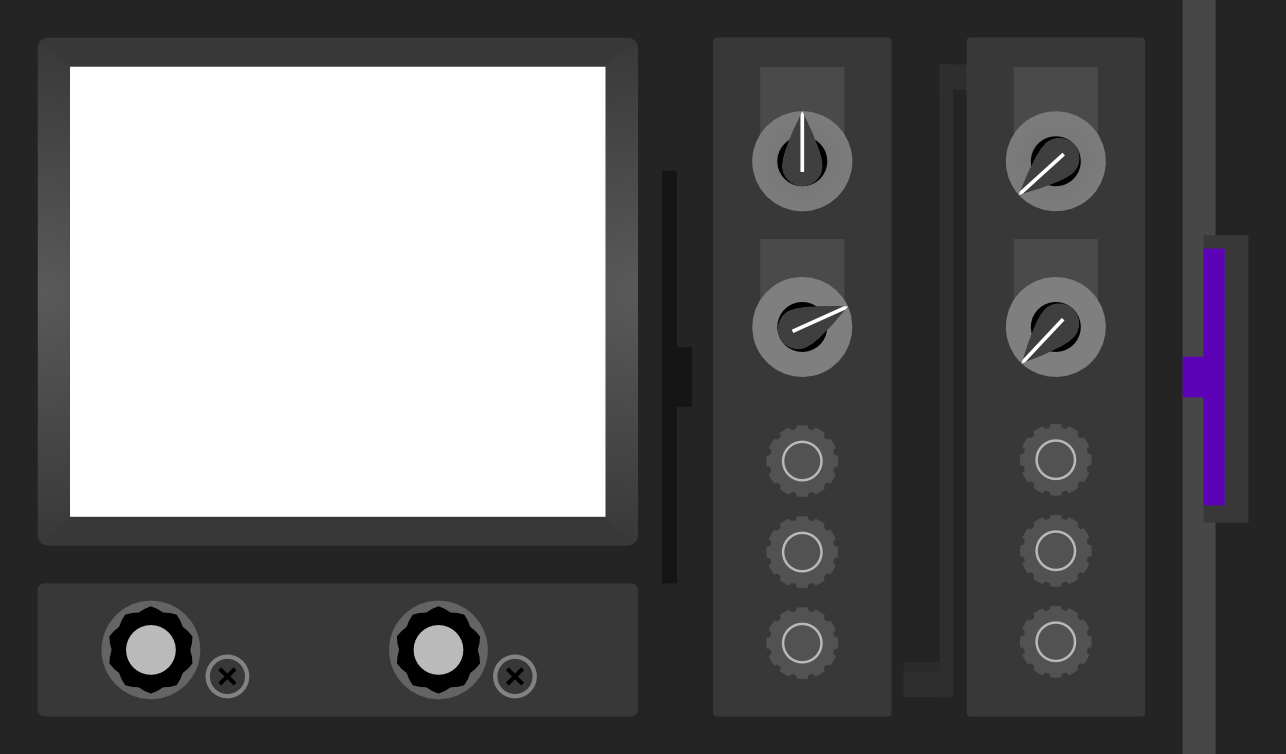
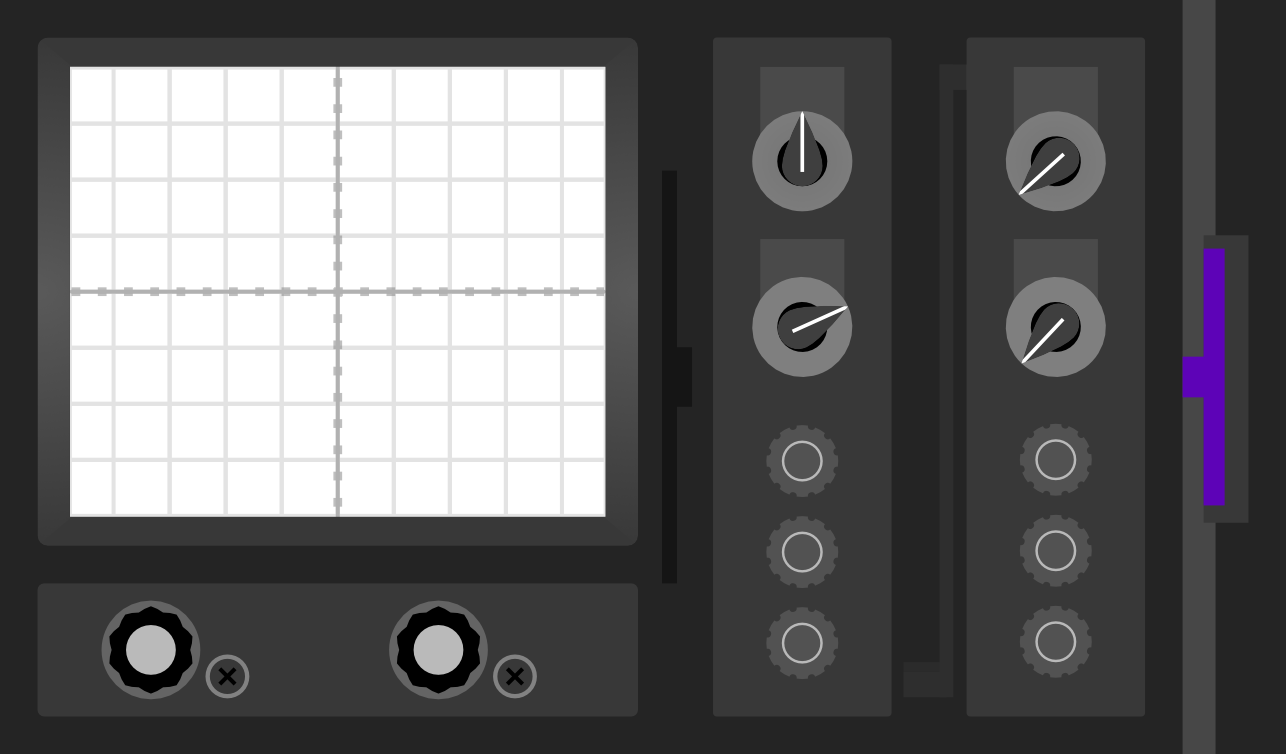
Create oscilloscope component (#84)
- Update oscilloscope image
  - Generalize frequency analyzer to accept attributes
  - Make frequency analyzer responsive
  - Optimize display for Chrome, FF and Safari
  - Style oscilloscope
  - Write frequency analyzer tests

diff --git a/src/modules/FrequencyAnalyzer.js b/src/modules/FrequencyAnalyzer.js
@@ -4,60 +4,65 @@ export default class FrequencyAnalyzer {
   constructor() {
     this.node = ctx().createAnalyser();
     this.elem = document.createElement('div');
+  }
 
+  draw(target, {
+    fftSize,
+    height,
+    lineThickness,
+    lineColor,
+  }) {
     const { node, elem } = this;
 
-    elem.className += 'frequency-analyzer';
-    document.body.insertBefore(elem, document.querySelector('#main'));
+    node.fftSize = fftSize;
+    node.height = height;
+    node.lineThickness = lineThickness;
+    node.lineColor = lineColor;
 
-    node.width = elem.offsetWidth;
-    node.height = elem.offsetHeight;
-    node.lineColor = '#191919';
-    node.lineThickness = 5;
+    target.appendChild(elem);
 
     const svgNamespace = 'http://www.w3.org/2000/svg';
     const paper = document.createElementNS(svgNamespace, 'svg');
-    paper.setAttribute('width', node.width);
-    paper.setAttribute('height', node.height);
+    paper.setAttribute('viewBox', `0 0 2450 ${height}`);
     paper.setAttributeNS('http://www.w3.org/2000/xmlns/', 'xmlns:xlink', 'http://www.w3.org/1999/xlink');
     elem.appendChild(paper);
 
     const oscLine = document.createElementNS(svgNamespace, 'path');
-    oscLine.setAttribute('stroke', node.lineColor);
-    oscLine.setAttribute('stroke-width', node.lineThickness);
+    oscLine.setAttribute('stroke', lineColor);
+    oscLine.setAttribute('stroke-width', lineThickness);
     oscLine.setAttribute('fill', 'none');
     paper.appendChild(oscLine);
 
-    const noDataPoints = 10;
     const freqData = new Uint8Array(node.frequencyBinCount);
 
-    const drawLine = () => {
-      node.getByteTimeDomainData(freqData);
+    this.drawLine(freqData, oscLine);
+  }
 
-      const graphPoints = [];
-      let graphStr = '';
+  drawLine(freqData, oscLine) {
+    const { height, lineThickness, lineColor } = this.node;
 
-      graphPoints.push(`M0, ${node.height / 2}`);
+    this.node.getByteTimeDomainData(freqData);
 
-      for (let i = 0; i < freqData.length; i++) {
-        if (i % noDataPoints) {
-          const point = (freqData[i] / 128) * (node.height / 2);
-          graphPoints.push(`L${i}, ${point}`);
-        }
+    const graphPoints = [];
+    const svgDValue = [];
+
+    graphPoints.push(`M0, ${height / 2}`);
+
+    for (let i = 0; i < freqData.length; i++) {
+      if (i % 10) {
+        const point = (freqData[i] / 128) * (height / 2);
+        graphPoints.push(`L${i}, ${point}`);
       }
+    }
 
-      for (let i = 0; i < graphPoints.length; i++) {
-        graphStr += graphPoints[i];
-      }
+    for (let i = 0; i < graphPoints.length; i++) {
+      svgDValue.push(graphPoints[i]);
+    }
 
-      oscLine.setAttribute('stroke', node.lineColor);
-      oscLine.setAttribute('stroke-width', node.lineThickness);
+    oscLine.setAttribute('stroke', lineColor);
+    oscLine.setAttribute('stroke-width', lineThickness);
+    oscLine.setAttribute('d', svgDValue.join(''));
 
-      oscLine.setAttribute('d', graphStr);
-
-      setTimeout(drawLine, 100);
-    };
-
-    drawLine();
+    setTimeout(() => this.drawLine(freqData, oscLine), 100);
   }
 }

diff --git a/src/modules/FrequencyAnalyzer.test.js b/src/modules/FrequencyAnalyzer.test.js
@@ -1,0 +1,82 @@
+import 'web-audio-test-api';
+import FrequencyAnalyzer from './FrequencyAnalyzer';
+
+describe('FrequencyAnalyzer', () => {
+  it('should create analyzer node', () => {
+    const frequencyAnalyzer = new FrequencyAnalyzer();
+
+    expect(frequencyAnalyzer.node.constructor.name).toEqual('AnalyserNode');
+  });
+
+  it('should create analyzer element', () => {
+    const frequencyAnalyzer = new FrequencyAnalyzer();
+
+    expect(frequencyAnalyzer.elem.constructor.name).toEqual('HTMLDivElement');
+  });
+
+  it('should accept attributes', () => {
+    const frequencyAnalyzer = new FrequencyAnalyzer();
+    const target = document.createElement('div');
+
+    frequencyAnalyzer.draw(target, {
+      fftSize: 1024,
+      height: 500,
+      lineThickness: 17,
+      lineColor: 'pink',
+    });
+
+    expect(frequencyAnalyzer.node.fftSize).toEqual(1024);
+    expect(frequencyAnalyzer.node.height).toEqual(500);
+    expect(frequencyAnalyzer.node.lineThickness).toEqual(17);
+    expect(frequencyAnalyzer.node.lineColor).toEqual('pink');
+  });
+
+  it('should inject analyzer into target', () => {
+    const frequencyAnalyzer = new FrequencyAnalyzer();
+    const target = document.createElement('div');
+    const spy = jest.spyOn(target, 'appendChild');
+
+    frequencyAnalyzer.draw(target, {
+      fftSize: 1024,
+      height: 500,
+      lineThickness: 17,
+      lineColor: 'pink',
+    });
+
+    expect(spy).toHaveBeenCalledWith(frequencyAnalyzer.elem);
+  });
+
+  it('should draw', () => {
+    const frequencyAnalyzer = new FrequencyAnalyzer();
+    const target = document.createElement('div');
+    const spy = jest.spyOn(frequencyAnalyzer, 'drawLine');
+
+    frequencyAnalyzer.draw(target, {
+      fftSize: 1024,
+      height: 500,
+      lineThickness: 17,
+      lineColor: 'pink',
+    });
+
+    expect(spy).toHaveBeenCalled();
+  });
+
+  it('should draw line every 100ms', () => {
+    jest.useFakeTimers();
+
+    const frequencyAnalyzer = new FrequencyAnalyzer();
+    const target = document.createElement('div');
+    const spy = jest.spyOn(frequencyAnalyzer, 'drawLine');
+
+    frequencyAnalyzer.draw(target, {
+      fftSize: 1024,
+      height: 500,
+      lineThickness: 17,
+      lineColor: 'pink',
+    });
+
+    jest.advanceTimersByTime(500);
+
+    expect(spy.mock.calls.length).toEqual(6);
+  });
+});

diff --git a/src/example/pages/CyanidePage/index.js b/src/example/pages/CyanidePage/index.js
@@ -10,6 +10,7 @@ import Phaser from '../../Phaser';
 import Delay from '../../Delay';
 import Ringmod from '../../Ringmod';
 import Sequencer from '../../Sequencer';
+import Oscilloscope from '../../Oscilloscope';
 import Keyboard from '../../common/Keyboard';
 import './CyanidePage.css';
 
@@ -30,6 +31,7 @@ export default class CyanidePage extends Component {
       ringmod,
       volumeEnvelope,
       sequencer,
+      frequencyAnalyzer,
     } = cyanide;
 
     const params = synth.getParams();
@@ -37,11 +39,11 @@ export default class CyanidePage extends Component {
     return (
       <div className="cyanide">
         <Row>
-          <Col span={24}>
+          <Col>
             <h2 className="cyanide-header">[cyanide]</h2>
           </Col>
 
-          <Col span={24}>
+          <Col>
             <Sequencer sequencer={sequencer} />
           </Col>
         </Row>
@@ -83,26 +85,39 @@ export default class CyanidePage extends Component {
           </Col>
 
           <Col
+            className="multi-column-span"
             xs={24}
-            md={8}
-            xl={5}
+            md={16}
+            xl={9}
           >
-            <Filter filter={filter} />
-            <Overdrive overdrive={overdrive} />
-          </Col>
+            <Row>
+              <Col span={24}>
+                <Oscilloscope frequencyAnalyzer={frequencyAnalyzer} />
+              </Col>
+            </Row>
 
-          <Col
-            xs={24}
-            md={8}
-            xl={4}
-          >
-            <Phaser phaser={phaser} />
-            <Delay delay={delay} />
+            <Row>
+              <Col
+                xs={24}
+                md={12}
+              >
+                <Filter filter={filter} />
+                <Overdrive overdrive={overdrive} />
+              </Col>
+
+              <Col
+                xs={24}
+                md={12}
+              >
+                <Phaser phaser={phaser} />
+                <Delay delay={delay} />
+              </Col>
+            </Row>
           </Col>
         </Row>
 
         <Row type="flex" justify="center">
-          <Col span={24}>
+          <Col>
             <Keyboard
               octaves={7}
               startingOctave={1}

diff --git a/src/example/Oscilloscope/index.js b/src/example/Oscilloscope/index.js
@@ -1,0 +1,38 @@
+import React, { Component } from 'react';
+import PropTypes from 'prop-types';
+import oscilloscopeImage from '../assets/tools/oscilloscope.png';
+import './Oscilloscope.css';
+
+export default class Oscilloscope extends Component {
+  static propTypes = {
+    frequencyAnalyzer: PropTypes.object.isRequired, // eslint-disable-line
+  }
+
+  componentDidMount() {
+    const { frequencyAnalyzer } = this.props;
+
+    frequencyAnalyzer.draw(this.frequencyAnalyzer.current, {
+      fftSize: 2048,
+      height: 607,
+      lineThickness: 15,
+      lineColor: '#8500ff',
+    });
+  }
+
+  frequencyAnalyzer = React.createRef();
+
+  render() {
+    return (
+      <div className="oscilloscope">
+        <div
+          className="frequency-analyzer"
+          ref={this.frequencyAnalyzer}
+        />
+        <img
+          src={oscilloscopeImage}
+          alt="Oscilloscope"
+        />
+      </div>
+    );
+  }
+}

diff --git a/src/stock-synths/Cyanide.js b/src/stock-synths/Cyanide.js
@@ -64,12 +64,12 @@ export default class Cyanide {
       .to(ringmod)
       .to(phaser)
       .to(delay)
+      .to(frequencyAnalyzer)
       .output();
 
     synth.addModule(lfo1);
     synth.addModule(lfo2);
     synth.addModule(sequencer);
-    synth.addModule(frequencyAnalyzer);
 
     volumeEnvelope.modulate(vca::param('gain'));
 

diff --git a/src/example/pages/CyanidePage/CyanidePage.css b/src/example/pages/CyanidePage/CyanidePage.css
@@ -1,5 +1,5 @@
-.cyanide > .ant-row > div,
-.cyanide > .ant-row-flex > div {
+.cyanide .ant-row > div,
+.cyanide .ant-row-flex > div {
   padding: 0 0.5rem;
 }
 
@@ -8,4 +8,9 @@
   top: -56px;
   left: 117px;
   z-index: 1;
+}
+
+.cyanide .ant-row > .multi-column-span,
+.cyanide .ant-row-flex > .multi-column-span {
+  padding: 0;
 }

diff --git a/src/example/Oscilloscope/Oscilloscope.css b/src/example/Oscilloscope/Oscilloscope.css
@@ -1,0 +1,19 @@
+.oscilloscope {
+  position: relative;
+  margin-bottom: 1rem;
+}
+
+.oscilloscope img {
+  width: 100%;
+}
+
+.frequency-analyzer {
+  position: absolute;
+  top: 0;
+  left: 0;
+  width: 100%;
+  height: 100%;
+  transform: translate(5.3%, 17.5%);
+  z-index: 2;
+  pointer-events: none;
+}

diff --git a/src/example/index.css b/src/example/index.css
@@ -30,16 +30,6 @@ body, h1, h2, h3, h4, h5, h6, label {
   background: #222;
 }
 
-.frequency-analyzer {
-  position: absolute;
-  top: 0;
-  left: 15px;
-  margin-bottom: 10px;
-  width: 100%;
-  height: 100%;
-  z-index: -1;
-}
-
 .icon-xs {
   width: 16px;
   margin-top: -2px;
